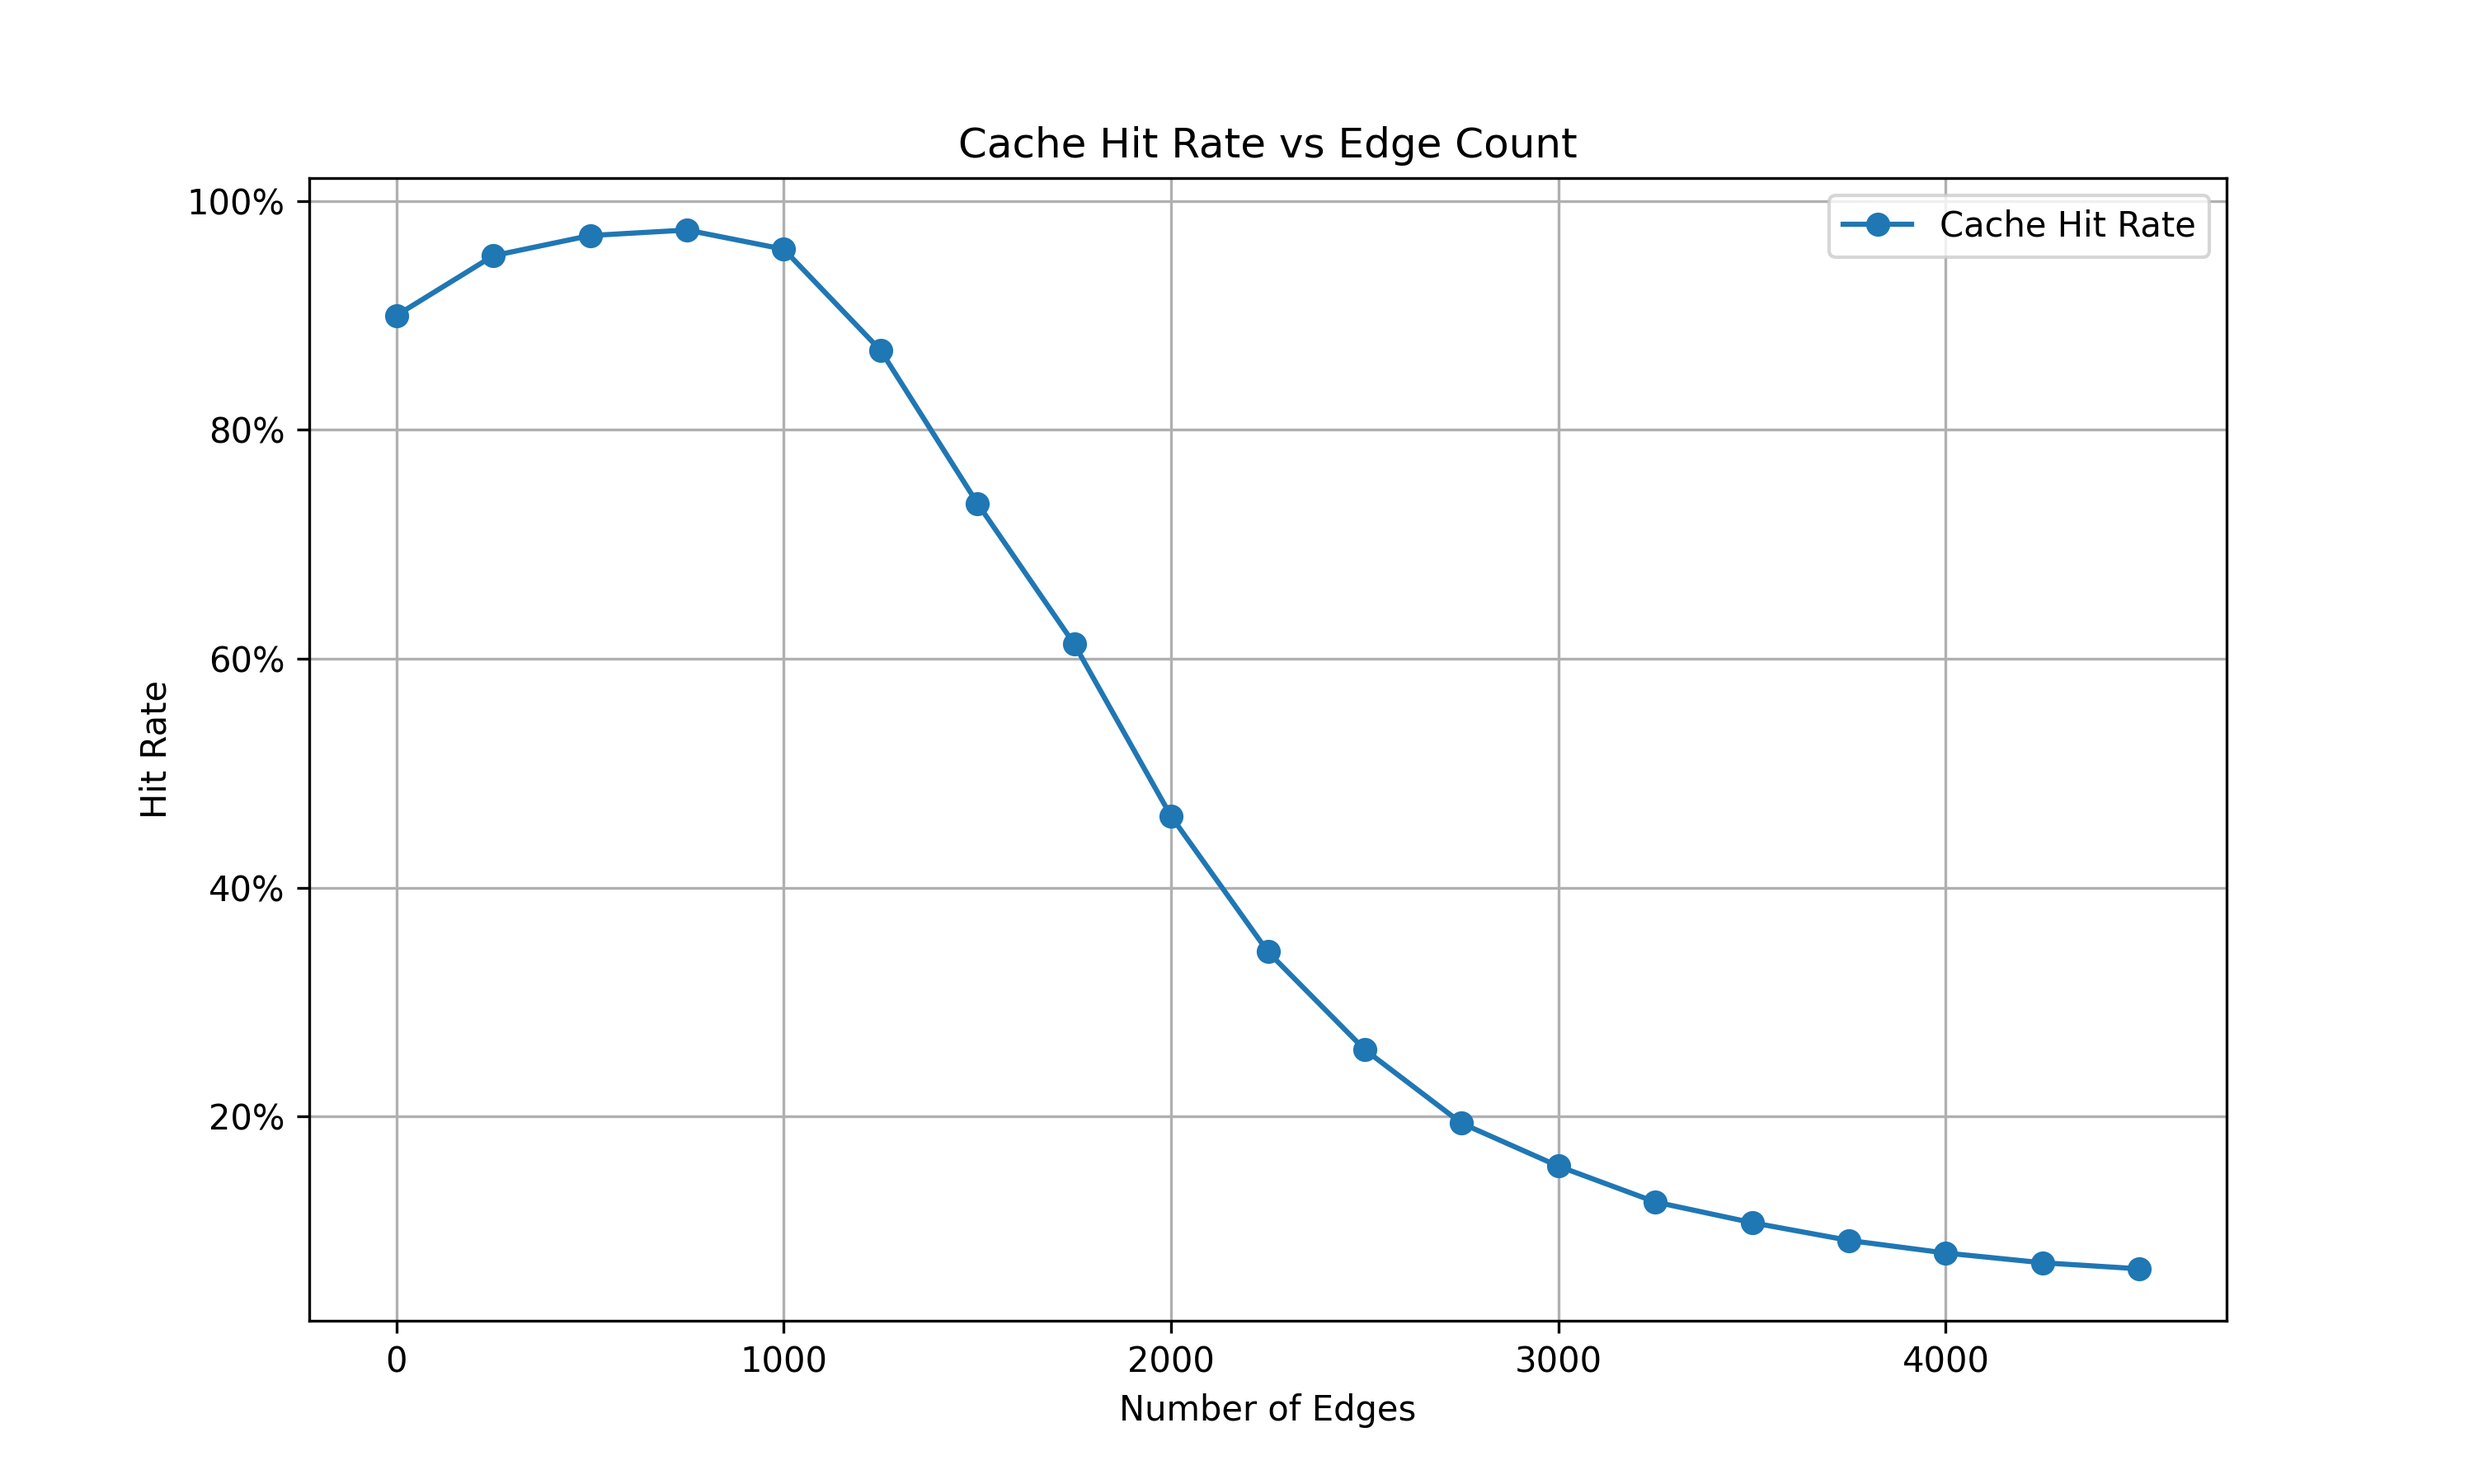
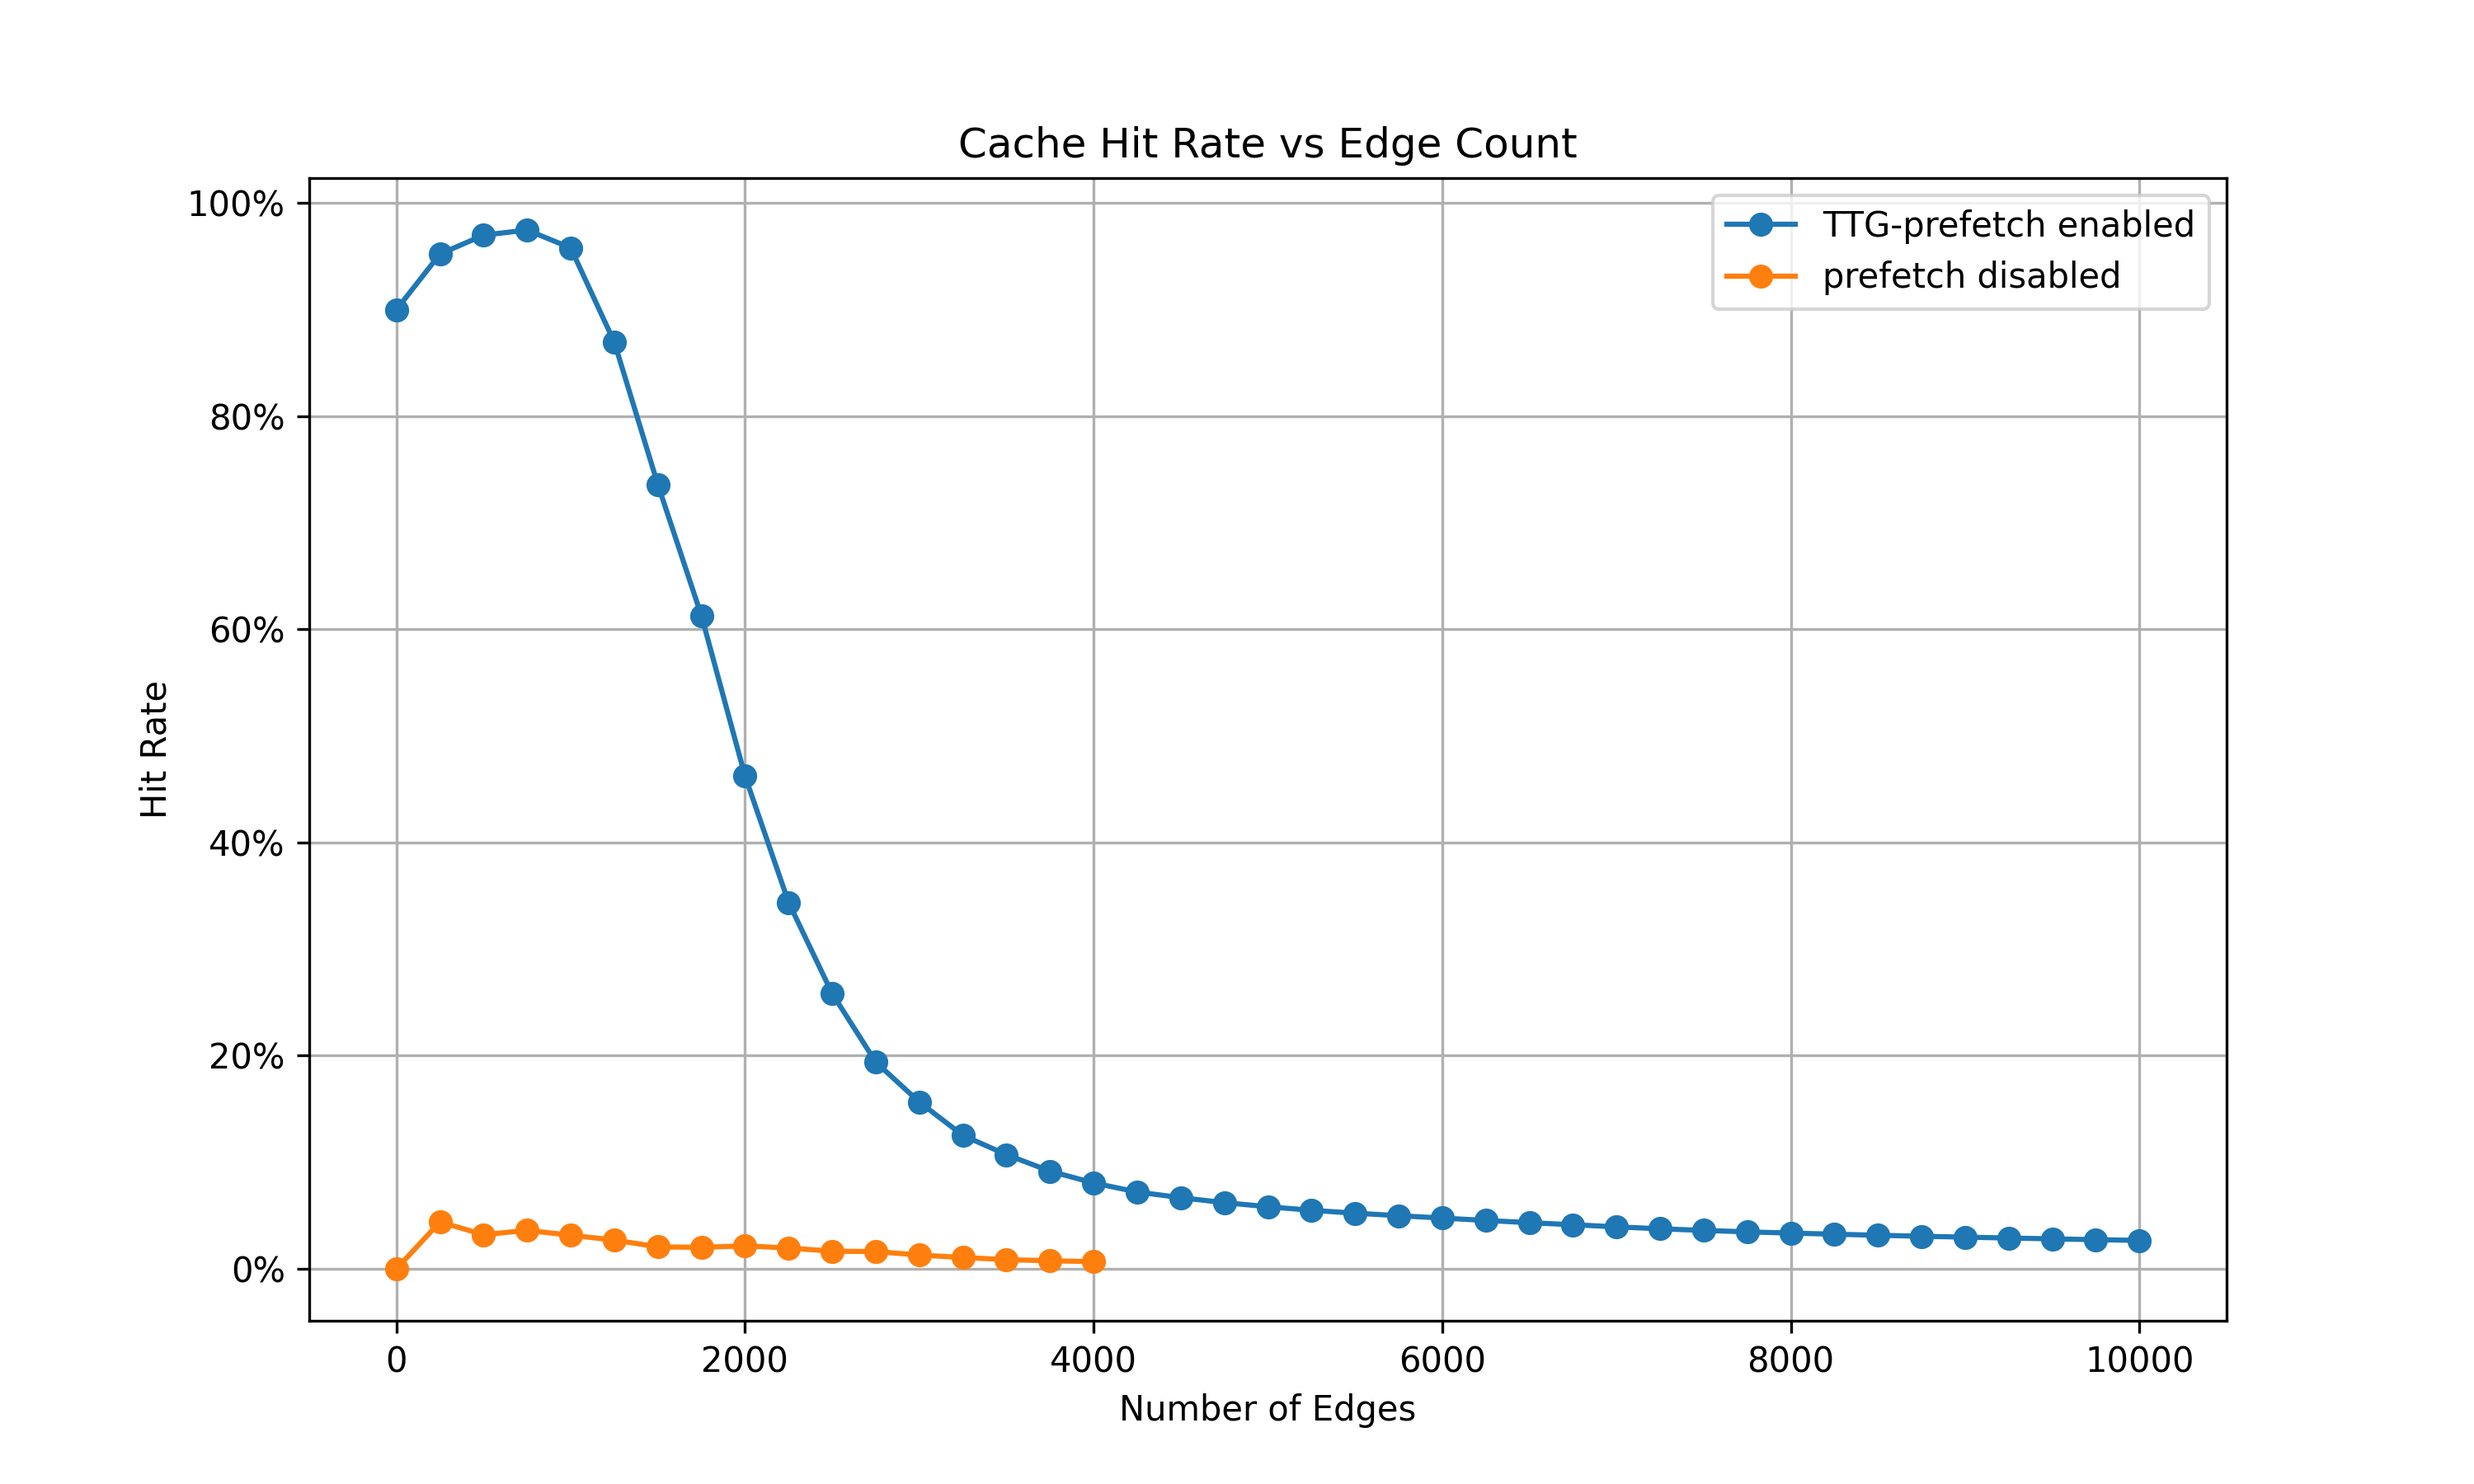
Refactor code structure for improved readability and maintainability

diff --git a/cache_plot.py b/cache_plot.py
@@ -36,19 +36,28 @@ def compute_hit_rate_by_edge(df: pd.DataFrame) -> pd.DataFrame:
 
 
 def plot_hit_rates(
-    hit_df: pd.DataFrame,
+    enabled_df: pd.DataFrame,
+    disabled_df: pd.DataFrame | None = None,
     figsize=(10, 6),
     save_path: str | None = "cache_hit_rate.png",
 ):
-    """Plot hit rate vs edge count."""
+    """Plot hit rate vs edge count for both cache modes."""
 
     plt.figure(figsize=figsize)
     plt.plot(
-        hit_df["JAC_EDGE_NUM"],
-        hit_df["avg_hit_rate"],
-        label="Cache Hit Rate",
+        enabled_df["JAC_EDGE_NUM"],
+        enabled_df["avg_hit_rate"],
+        label="TTG-prefetch enabled",
         marker="o",
     )
+
+    if disabled_df is not None:
+        plt.plot(
+            disabled_df["JAC_EDGE_NUM"],
+            disabled_df["avg_hit_rate"],
+            label="prefetch disabled",
+            marker="o",
+        )
 
     plt.xlabel("Number of Edges")
     plt.ylabel("Hit Rate")
@@ -65,13 +74,40 @@ def plot_hit_rates(
         plt.show()
 
 
+def resolve_dataset(label: str, candidates: list[Path], required: bool) -> Path | None:
+    """Return the first existing candidate path for a dataset."""
+
+    for path in candidates:
+        if path.exists():
+            return path
+
+    if required:
+        cand_str = ", ".join(str(p) for p in candidates)
+        raise FileNotFoundError(f"Could not find {label}. Checked: {cand_str}")
+
+    return None
+
+
 if __name__ == "__main__":
-    stats_path = Path("cache_stats.json")
+    enabled_candidates = [
+        Path("cache_stats_TTG-prefetch_enabled.json"),
+        Path("cache_stats_prefetch_enabled.json"),
+        Path("cache_stats.json"),
+        Path("new/cache_stats.json"),
+    ]
 
-    if not stats_path.exists():
-        raise FileNotFoundError("Expected cache_stats.json in the current directory.")
+    disabled_candidates = [
+        Path("cache_stats_prefetch_disabled.json"),
+        Path("cache_stats_prefetch_disabled_old.json"),
+        Path("old/cache_stats.json"),
+    ]
 
-    cache_df = load_cache_stats(stats_path)
-    cache_df = compute_hit_rate_by_edge(cache_df)
+    enabled_path = resolve_dataset("TTG-prefetch enabled metrics", enabled_candidates, required=True)
+    disabled_path = resolve_dataset("prefetch disabled metrics", disabled_candidates, required=False)
 
-    plot_hit_rates(cache_df)
+    enabled_df = compute_hit_rate_by_edge(load_cache_stats(enabled_path))
+    disabled_df = None
+    if disabled_path is not None:
+        disabled_df = compute_hit_rate_by_edge(load_cache_stats(disabled_path))
+
+    plot_hit_rates(enabled_df, disabled_df)
